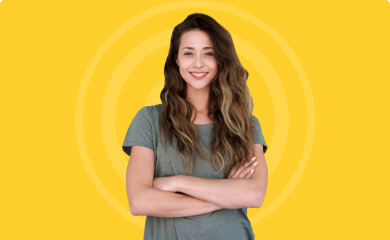
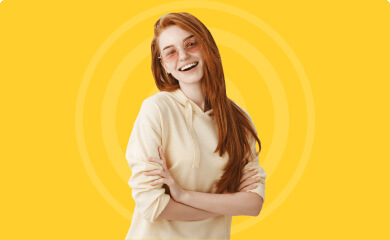
last commit

Changed region(s): [[0.3077, 0.0292, 0.7077, 1.0]]

diff --git a/pages/secondary.html b/pages/secondary.html
@@ -54,7 +54,7 @@
 
             <div class="courses-grid">
                 <div class="course-card">
-                    <div><img src="../secondary-pages-images/image (4).png" alt=""></div>
+                    <div><img src="../secondary-pages-images/image (9).png" alt=""></div>
                     <div class="course-content">
                         <span class="course-category category-marketing">Marketing</span>
                         <h3 class="course-title">The Ultimate Google Ads Training Course</h3>
@@ -64,7 +64,7 @@
                 </div>
 
                 <div class="course-card">
-                    <div><img src="../secondary-pages-images/image.png" alt=""></div>
+                    <div><img src="../secondary-pages-images/image (10).png" alt=""></div>
                     <div class="course-content">
                         <span class="course-category category-management">Management</span>
                         <h3 class="course-title">Product Management Fundamentals</h3>
@@ -74,7 +74,7 @@
                 </div>
 
                 <div class="course-card">
-                    <div><img src="../png3/image.png" alt=""></div>
+                    <div><img src="../secondary-pages-images/image (8).png" alt=""></div>
                     <div class="course-content">
                         <span class="course-category category-hr">HR & Recruiting</span>
                         <h3 class="course-title">HR Management and Analytics</h3>
@@ -84,7 +84,7 @@
                 </div>
 
                 <div class="course-card">
-                    <div><img src="../png4/image.png" alt=""></div>
+                    <div><img src="../secondary-pages-images/image (6).png" alt=""></div>
                     <div class="course-content">
                         <span class="course-category category-marketing">Marketing</span>
                         <h3 class="course-title">Brand Management & PR Communications</h3>
@@ -94,7 +94,7 @@
                 </div>
 
                 <div class="course-card">
-                    <div><img src="../png5/image.png" alt=""></div>
+                    <div><img src="../secondary-pages-images/image (5).png" alt=""></div>
                     <div class="course-content">
                         <span class="course-category category-design">Design</span>
                         <h3 class="course-title">Graphic Design Basic</h3>
@@ -104,7 +104,7 @@
                 </div>
 
                 <div class="course-card">
-                    <div><img src="../png6/image.png" alt=""></div>
+                    <div><img src="../secondary-pages-images/image (4).png" alt=""></div>
                     <div class="course-content">
                         <span class="course-category category-management">Management</span>
                         <h3 class="course-title">Business Development Management</h3>
@@ -114,7 +114,7 @@
                 </div>
 
                 <div class="course-card">
-                    <div><img src="../png7/image.png" alt=""></div>
+                    <div><img src="../secondary-pages-images/image (3).png" alt=""></div>
                     <div class="course-content">
                         <span class="course-category category-development">Development</span>
                         <h3 class="course-title">Highload Software Architecture</h3>
@@ -124,7 +124,7 @@
                 </div>
 
                 <div class="course-card">
-                    <div><img src="../png8/image.png" alt=""></div>
+                    <div><img src="../secondary-pages-images/image (2).png" alt=""></div>
                     <div class="course-content">
                         <span class="course-category category-hr">HR & Recruiting</span>
                         <h3 class="course-title">Human Resources - Selection and Recruitment</h3>
@@ -134,7 +134,7 @@
                 </div>
 
                 <div class="course-card">
-                    <div><img src="../png9/image.png" alt=""></div>
+                    <div><img src="../secondary-pages-images/image.png" alt=""></div>
                     <div class="course-content">
                         <span class="course-category category-design">Design</span>
                         <h3 class="course-title">User Experience: Human-centered Design</h3>
@@ -159,7 +159,7 @@
         Vitae id turpis tempus ornare turpis quis non.
       </p>
       <div class="testimonial-user">
-        <img src="../svg (2)/image (4).svg" alt="Eleanor Pena">
+        <img src="../svg/image (4).svg" alt="Eleanor Pena">
         <div class="testimonial-user-info">
           <strong>Eleanor Pena</strong>
           Position, Course
@@ -175,13 +175,13 @@
       <h2>Your expertise will be confirmed</h2>
       <p>We are accredited by international professional organizations and institutes:</p>
       <div class="certificate-logos">
-        <img src="../svg (2)/logo (3).svg" alt="Del Mar Strategy">
-        <img src="../svg (2)/logo (4).svg" alt="Benzinga">
-        <img src="../svg (2)/logo (5).svg" alt="National">
+        <img src="../svg/logo (3).svg" alt="Del Mar Strategy">
+        <img src="../svg/logo (4).svg" alt="Benzinga">
+        <img src="../svg/logo (5).svg" alt="National">
       </div>
     </div>
     <div class="certificate-img">
-      <img src="../png9/image (7).png" alt="Certificate">
+      <img src="../secondary-pages-images/image (7).png" alt="Certificate">
     </div>
   </section>
 
@@ -193,8 +193,8 @@
       <input type="email" placeholder="Your working email" required />
       <button type="submit">Subscribe</button>
     </form>
-    <img src="../svg (2)/illustration.svg" alt="Graduation illustration" class="subscribe-bg-left">
-    <img src="../svg (2)/illustration (1).svg" alt="Graduation illustration" class="subscribe-bg-right">
+    <img src="../svg/illustration (1).svg" alt="Graduation illustration" class="subscribe-bg-left">
+    <img src="../svg/illustration (1).svg" alt="Graduation illustration" class="subscribe-bg-right">
   </section>
 
  
@@ -205,12 +205,12 @@
         <h3 class="logo">CREATE<span class="logo-x">X</span></h3>
         <p>Createx Online School is a leader in online studying. We have lots of courses and programs from the main market experts. We provide relevant approaches to online learning, internships and employment in the largest companies in the country.</p>
         <div class="socials">
-          <img src="../svg (2)/Vector (1).svg" alt="">
-          <img src="../svg (2)/Twitter (1).svg" alt="">
-          <img src="../svg (2)/YouTube.svg" alt="">
-          <img src="../svg (2)/telegram.svg" alt="">
-          <img src="../svg (2)/Instagram.svg" alt="">
-          <img src="../svg (2)/Linked-In.svg" alt="">
+          <img src="../svg/Vector (1).svg" alt="">
+          <img src="../svg/Twitter (1).svg" alt="">
+          <img src="../svg/YouTube.svg" alt="">
+          <img src="../svg/telegram.svg" alt="">
+          <img src="../svg/Instagram.svg" alt="">
+          <img src="../svg/Linked-In.svg" alt="">
         </div>
       </div>
 
